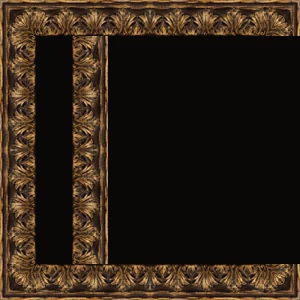
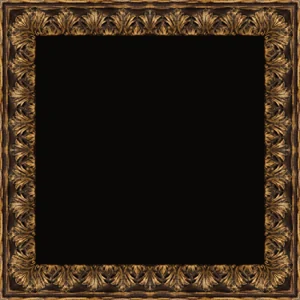
Багет: исправлена правая сторона рамки (была чёрной)
Нашёл по скриншоту с телефона и проверил числами: у правого края каждой афиши
стояло (9,8,6) вместо позолоты. В сборке тайла правая полоса клалась не в свою
область (x = size − tile_len вместо size − BAND) — и оставалась заливкой фона.

Теперь в сборке есть проверка всех четырёх сторон кадра: сейчас верх/низ/лево/право
дают одинаковую яркость 67 (пустых нет). Тайл пересобран, ссылка бампнута
(?v=2), стили — ?v=5.

Changed region(s): [[0.87, 0.12, 1.0, 0.9], [0.24, 0.12, 0.36, 0.9]]

diff --git a/style.css b/style.css
@@ -262,7 +262,7 @@ body.show-plan .plan{display:flex}
 @media (min-width:1200px){ :root{ --fr:10px } }
 .poster img{width:100%;border-radius:0;
   border:var(--fr) solid transparent;
-  border-image:url('img/baget.webp') 36 / var(--fr) repeat;
+  border-image:url('img/baget.webp?v=2') 36 / var(--fr) repeat;
   box-shadow:0 30px 70px -40px rgba(0,0,0,.9)}
 .poster__cap{margin-top:var(--s2);font-size:var(--t2);color:var(--dim)}
 .poster__cap b{display:block;font-family:var(--serif);font-weight:400;font-size:var(--t3);color:var(--ink)}

diff --git a/index.html b/index.html
@@ -23,7 +23,7 @@
 <link href="https://fonts.googleapis.com/css2?family=Prata&family=Inter:wght@300;400;500;600&display=swap" rel="stylesheet">
 <link rel="preload" as="image" href="img/hero-phone.jpg" media="(max-width:767px)">
 <link rel="preload" as="image" href="img/hero-desk.jpg" media="(min-width:768px)">
-<link rel="stylesheet" href="style.css?v=4">
+<link rel="stylesheet" href="style.css?v=5">
 </head>
 <body>
 
